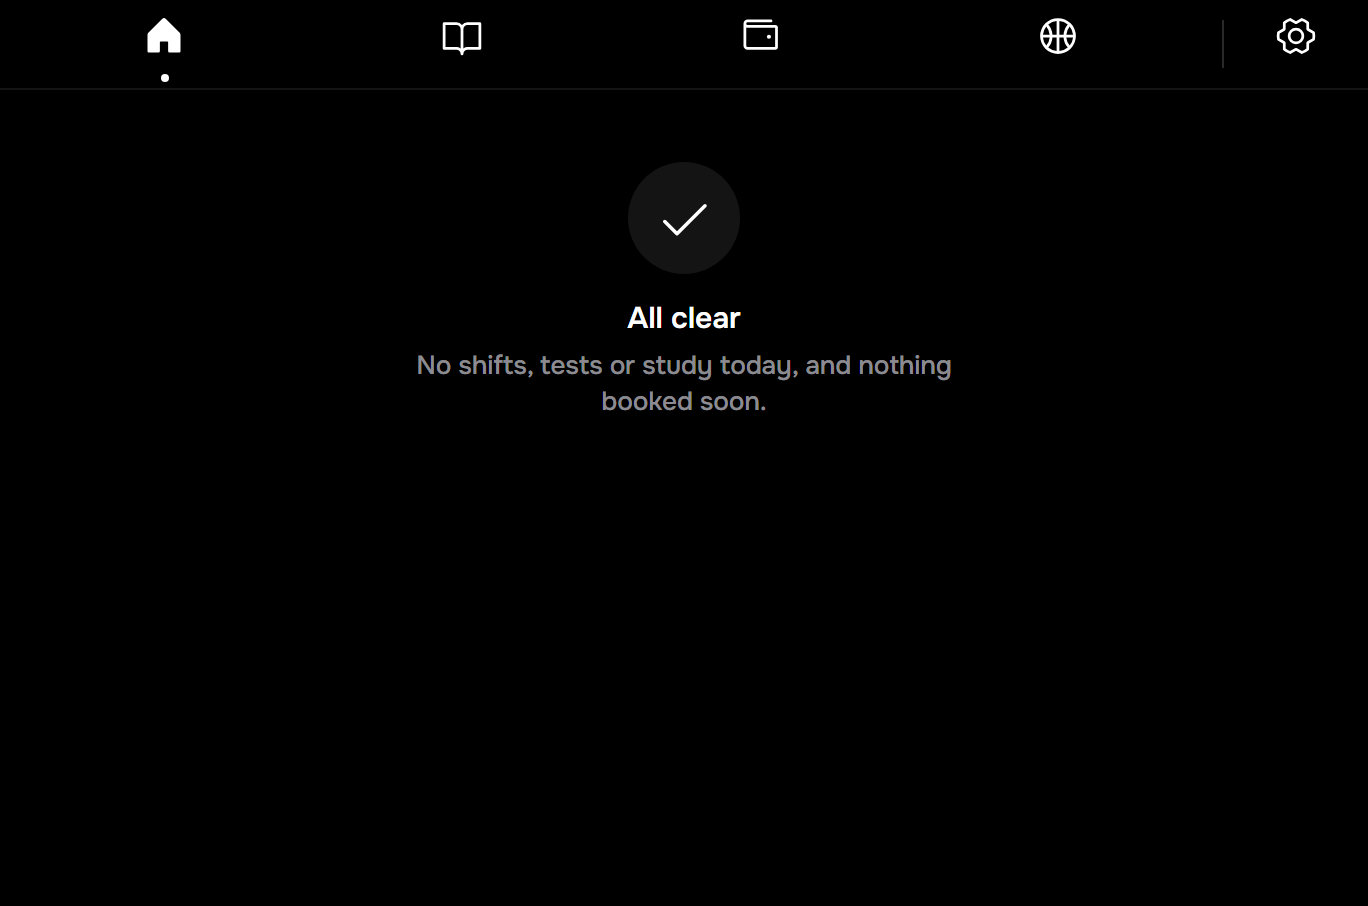
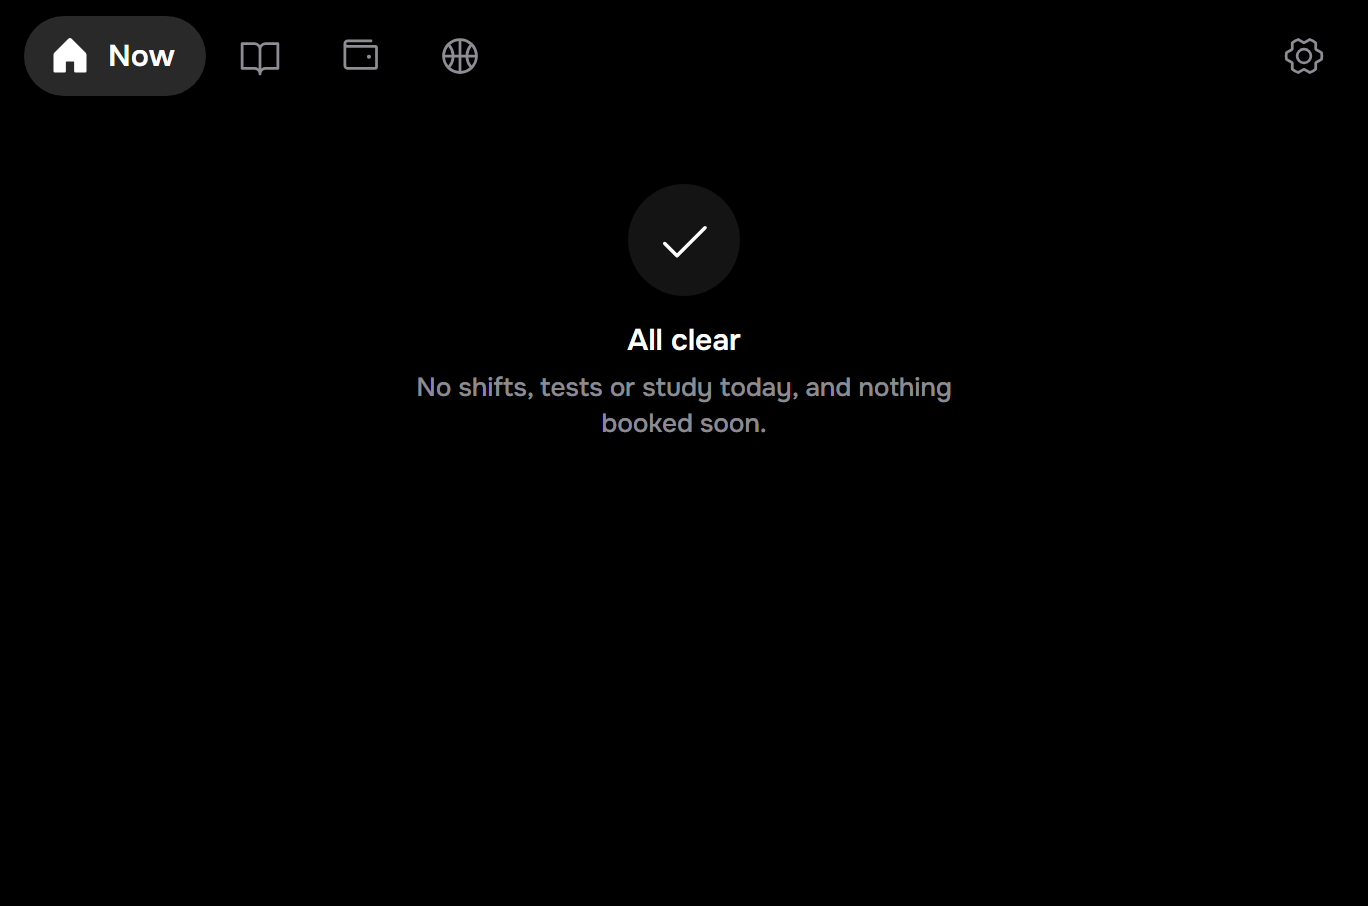
Embed polish: pill tab bar, panels fill the viewport
Active tab is a pill with its name, gear at the far end. Panels measure their
natural height for the compact steps, then stretch to fill the space so there
is no dead black at the bottom. Pay bars, Now cards, Study cards and the Sixers
scoreboard all grow with the window. Sixers type back on the 28 step.

diff --git a/src/styles/embed.css b/src/styles/embed.css
@@ -148,3 +148,80 @@ html.embed .signin-msg { min-height: 0; }
 .embed-root .s-panel[data-fit="3"] .s-bar { line-height: 1.15; }
 .embed-root .s-panel[data-fit="3"] .s-week { padding: var(--s2) var(--s3); }
 .embed-root .s-panel[data-fit="3"] .s-weekhead { line-height: 1.2; }
+
+/* ===== Polish pass ===== */
+
+/* Tab bar: the active tab is a pill with its name, the rest are icons. Left aligned, the gear sits at the far end. */
+.embed-bar { padding: var(--s2) var(--s3) var(--s2); border-bottom: 0; }
+.embed-bar .h-tabbar { gap: var(--s2); }
+.embed-bar .h-tabs { flex: 1 1 auto; height: 40px; gap: var(--s1); }
+.embed-bar .h-tab, .embed-bar .h-tabbar > .h-tab { flex: 0 0 auto; width: auto; max-width: none; height: 40px; padding: 0 var(--s3); border-radius: 20px; display: inline-flex; align-items: center; gap: var(--s2); color: var(--text-2); }
+.embed-bar .h-tabbar > .h-tab { width: 40px; padding: 0; justify-content: center; }
+.embed-bar .h-tab[aria-selected="true"] { background: var(--fill-1); color: var(--text-1); padding: 0 var(--s4) 0 var(--s3); }
+.embed-bar .h-tab[aria-selected="true"]::after { content: attr(aria-label); font-size: var(--fs-15); font-weight: 600; }
+.embed-bar .h-tab:hover:not([aria-selected="true"]) { color: var(--text-1); }
+.embed-bar .h-tabdot, .embed-bar .h-tab-div { display: none; }
+.embed-root.is-short .embed-bar .h-tabs, .embed-root.is-short .embed-bar .h-tab, .embed-root.is-short .embed-bar .h-tabbar > .h-tab { height: 36px; }
+.embed-root.is-tiny .embed-bar { padding: var(--s1) var(--s3); }
+.embed-root.is-tiny .embed-bar .h-tabs, .embed-root.is-tiny .embed-bar .h-tab, .embed-root.is-tiny .embed-bar .h-tabbar > .h-tab { height: 34px; padding-bottom: 0; }
+.embed-root.is-tiny .embed-bar .h-tabbar > .h-tab { width: 34px; flex-basis: auto; }
+.embed-root.is-tiny .embed-bar .h-tab[aria-selected="true"] { padding: 0 var(--s3) 0 var(--s2); }
+.embed-pop { top: calc(var(--embed-top, 0px) + 56px); }
+.embed-root.is-tiny .embed-pop { top: calc(var(--embed-top, 0px) + 44px); }
+
+/* Panels fill the space under the bar instead of hugging the top. home.ts measures the natural height first. */
+.embed-root .h-panelhost .h-panel { min-height: 100%; }
+.embed-root .n-panel { grid-template-rows: minmax(0, 1fr); }
+.embed-root .n-left { grid-auto-rows: minmax(0, 1fr); align-content: stretch; }
+.embed-root .n-card { align-content: center; }
+.embed-root .n-today { align-content: start; grid-template-rows: auto 1fr; }
+.embed-root .n-today .n-list { align-content: space-between; }
+.embed-root .home-pay { min-height: 100%; display: grid; }
+.embed-root .home-pay .pay-panel { height: 100%; grid-template-rows: auto minmax(0, 1fr); }
+.embed-root .home-pay .pay-body, .embed-root .home-pay .pay-grid { min-height: 0; height: 100%; }
+.embed-root .home-pay .pay-grid { align-items: stretch; }
+.embed-root .home-pay .pay-left { grid-template-rows: auto minmax(0, 1fr) auto; }
+.embed-root .home-pay .pay-left > .pay-inset { display: grid; min-height: 0; }
+.embed-root .home-pay .pay-bars { height: 100%; }
+.embed-root .home-pay .pay-day { grid-template-rows: minmax(0, 1fr) auto auto; min-height: 0; }
+.embed-root .home-pay .pay-track { height: auto; min-height: 32px; }
+.embed-root .home-pay .pay-list { align-content: start; }
+.embed-root .s-panel { min-height: 100%; grid-template-rows: auto minmax(0, 1fr); }
+.embed-root .s-grid { min-height: 0; }
+.embed-root .s-timer { align-content: center; }
+.embed-root .s-week { align-content: center; }
+
+/* Sixers: a bigger scoreboard, centred in the space, with room to breathe. */
+.embed-root .h-panel.sx { justify-content: center; }
+.embed-root .sx-game { gap: var(--s5); }
+.embed-root .sx-inset { padding: var(--s4) var(--s5); }
+.embed-root .sx-scores { padding: 0 var(--s2); }
+.embed-root .sx-big, .embed-root .sx-big .h-roll { font-size: 44px; }
+.embed-root .is-tiny ~ * .sx-big { font-size: var(--fs-28); }
+.embed-root.is-tiny .sx-big, .embed-root.is-tiny .sx-big .h-roll { font-size: var(--fs-28); }
+.embed-root.is-tiny .sx-game { gap: var(--s3); }
+.embed-root.is-tiny .sx-inset { padding: var(--s3) var(--s4); }
+
+/* ---- Polish pass, fixes ---- */
+.embed-root .home-pay .pay-panel { height: auto; }
+.embed-root .home-pay .pay-body { display: grid; }
+.embed-root .home-pay .pay-body, .embed-root .home-pay .pay-grid { height: auto; }
+.embed-root .home-pay[data-fit="3"] .pay-week { min-height: 32px; }
+.embed-root .home-pay[data-fit="3"] .pay-nav .h-ibtn { width: 32px; height: 32px; }
+.embed-root .h-panelhost .h-panel.sx { min-height: 100% !important; } /* the card sets its own inline minimum for the island */
+
+/* ---- Polish pass, round two ---- */
+.embed-root .home-pay[data-fit] .pay-panel { align-items: stretch; }
+.embed-root .home-pay[data-fit] .pay-list { align-content: space-between; }
+.embed-root .home-pay[data-fit="3"] .pay-list { align-content: start; }
+
+/* Sixers: type stays on the 28 step. The scoreboard is an inset card that fills the space, Maxey's line sits under it. */
+.embed-root .sx-big, .embed-root .sx-big .h-roll { font-size: var(--fs-28); }
+.embed-root .h-panel.sx { justify-content: stretch; }
+.embed-root .sx-game { flex: 1 1 auto; grid-template-rows: minmax(0, 1fr) auto; gap: var(--s2); }
+.embed-root .sx-scores { align-content: center; padding: var(--s4) var(--s6); border-radius: 24px; background: var(--fill-2); }
+.embed-root .sx-next { flex: 1 1 auto; }
+.embed-root .sx-ncount { align-self: stretch; justify-content: center; }
+.embed-root.is-tiny .embed-bar { padding: var(--s1) var(--s3) 0; }
+.embed-root .home-pay[data-fit="3"] .pay-shift { padding: 1px var(--s1); } .embed-root .home-pay[data-fit="3"] .pay-list { padding: var(--s1) var(--s3); }
+.embed-root .home-pay[data-fit] .pay-track { height: auto; min-height: 32px; }
